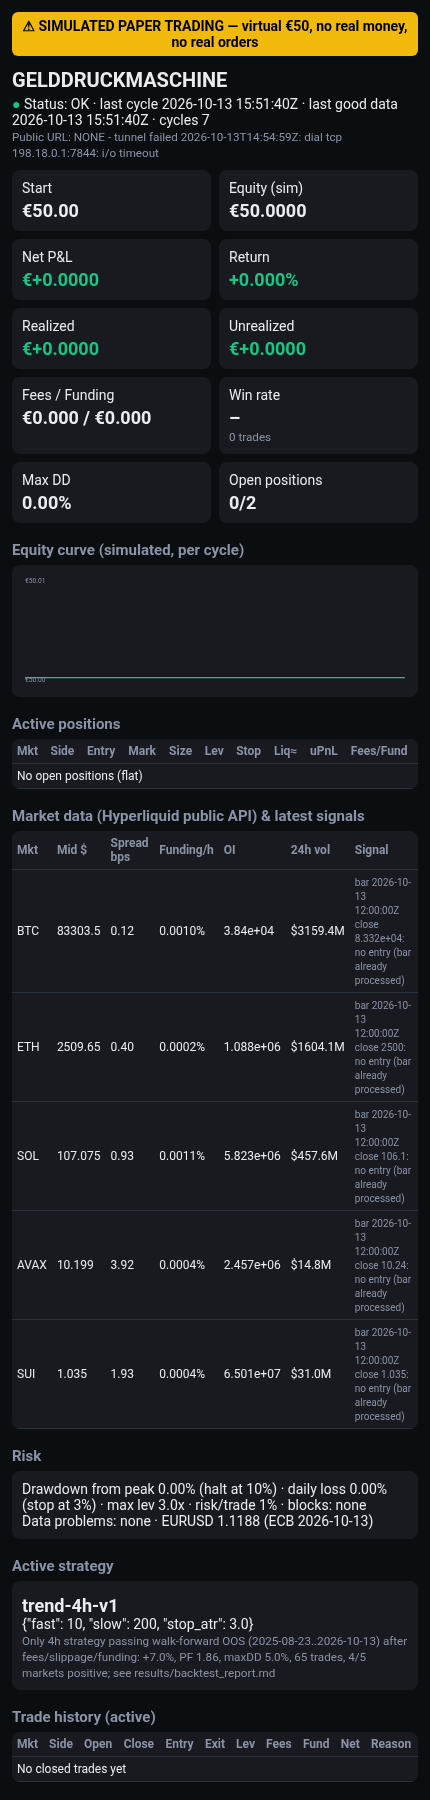
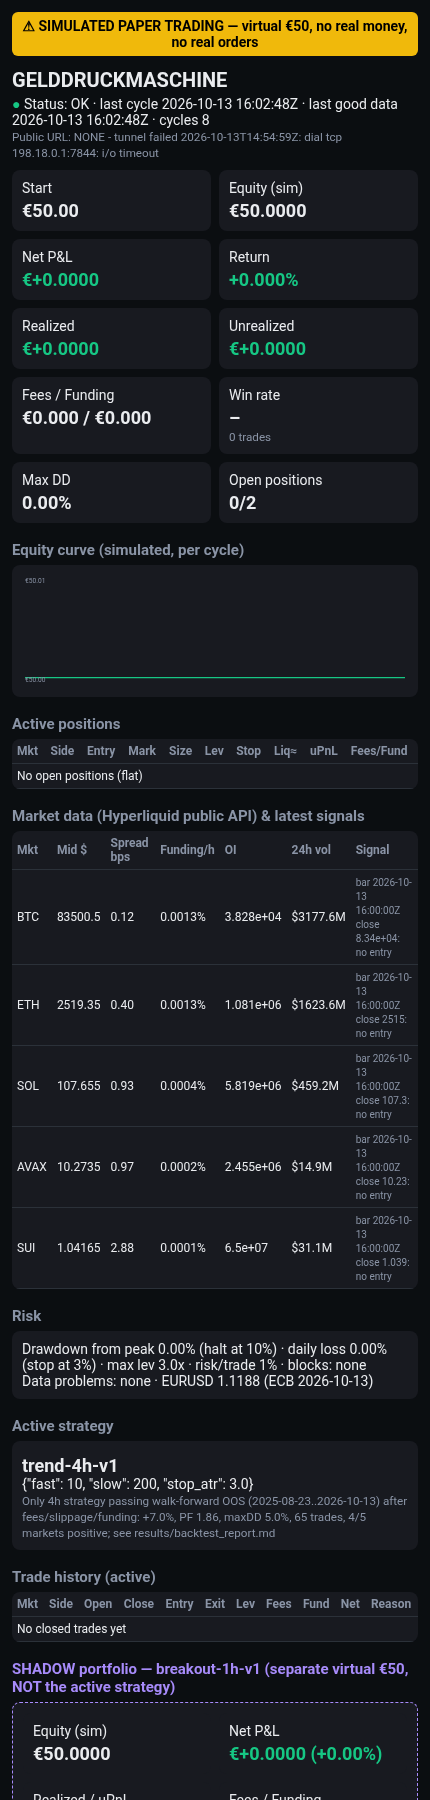
dashboard update 2026-10-13T16:03:00Z (SIMULATED)

diff --git a/index.html b/index.html
@@ -4,23 +4,23 @@
 .grid{display:grid;grid-template-columns:repeat(auto-fit,minmax(140px,1fr));gap:8px}.card{background:#181a20;border-radius:8px;padding:10px}.card b{display:block;font-size:18px;margin-top:4px}
 .pos{color:#16c784}.neg{color:#ea3943}table{width:100%;border-collapse:collapse;font-size:12px}td,th{padding:5px;border-bottom:1px solid #2b3139;text-align:left}th{color:#8a94a6}.scroll{overflow-x:auto;background:#181a20;border-radius:8px}small{color:#8a94a6}</style></head><body>
 <div class=banner>⚠ SIMULATED PAPER TRADING — virtual €50, no real money, no real orders</div>
-<h1>GELDDRUCKMASCHINE</h1><div><span style="color:#16c784">●</span> Status: OK · last cycle 2026-10-13 15:51:40Z · last good data 2026-10-13 15:51:40Z · cycles 7<br><small>Public URL: NONE - tunnel failed 2026-10-13T14:54:59Z: dial tcp 198.18.0.1:7844: i/o timeout</small></div>
+<h1>GELDDRUCKMASCHINE</h1><div><span style="color:#16c784">●</span> Status: OK · last cycle 2026-10-13 16:02:48Z · last good data 2026-10-13 16:02:48Z · cycles 8<br><small>Public URL: NONE - tunnel failed 2026-10-13T14:54:59Z: dial tcp 198.18.0.1:7844: i/o timeout</small></div>
 <div class=grid style="margin-top:10px"><div class=card>Start<b>€50.00</b></div><div class=card>Equity (sim)<b>€50.0000</b></div><div class=card>Net P&L<b class=pos>€+0.0000</b></div><div class=card>Return<b class=pos>+0.000%</b></div>
 <div class=card>Realized<b class=pos>€+0.0000</b></div><div class=card>Unrealized<b class=pos>€+0.0000</b></div><div class=card>Fees / Funding<b>€0.000 / €0.000</b></div>
 <div class=card>Win rate<b>–</b><small>0 trades</small></div><div class=card>Max DD<b>0.00%</b></div><div class=card>Open positions<b>0/2</b></div></div>
-<h2>Equity curve (simulated, per cycle)</h2><div class=card><svg viewBox="0 0 640 180" width="100%"><polyline fill="none" stroke="#16c784" stroke-width="2" points="5.0,170.0 95.0,170.0 185.0,170.0 275.0,170.0 365.0,170.0 455.0,170.0 545.0,170.0 635.0,170.0"/><text x="5" y="14" fill="#8a94a6" font-size="11">€50.01</text><text x="5" y="178" fill="#8a94a6" font-size="11">€50.00</text></svg></div>
+<h2>Equity curve (simulated, per cycle)</h2><div class=card><svg viewBox="0 0 640 180" width="100%"><polyline fill="none" stroke="#16c784" stroke-width="2" points="5.0,170.0 83.8,170.0 162.5,170.0 241.2,170.0 320.0,170.0 398.8,170.0 477.5,170.0 556.2,170.0 635.0,170.0"/><text x="5" y="14" fill="#8a94a6" font-size="11">€50.01</text><text x="5" y="178" fill="#8a94a6" font-size="11">€50.00</text></svg></div>
 <h2>Active positions</h2><div class=scroll><table><tr><th>Mkt</th><th>Side</th><th>Entry</th><th>Mark</th><th>Size</th><th>Lev</th><th>Stop</th><th>Liq≈</th><th>uPnL</th><th>Fees/Fund</th></tr><tr><td colspan=10>No open positions (flat)</td></tr></table></div>
-<h2>Market data (Hyperliquid public API) & latest signals</h2><div class=scroll><table><tr><th>Mkt</th><th>Mid $</th><th>Spread bps</th><th>Funding/h</th><th>OI</th><th>24h vol</th><th>Signal</th></tr><tr><td>BTC</td><td>83303.5</td><td>0.12</td><td>0.0010%</td><td>3.84e+04</td><td>$3159.4M</td><td><small>bar 2026-10-13 12:00:00Z close 8.332e+04: no entry (bar already processed)</small></td></tr><tr><td>ETH</td><td>2509.65</td><td>0.40</td><td>0.0002%</td><td>1.088e+06</td><td>$1604.1M</td><td><small>bar 2026-10-13 12:00:00Z close 2500: no entry (bar already processed)</small></td></tr><tr><td>SOL</td><td>107.075</td><td>0.93</td><td>0.0011%</td><td>5.823e+06</td><td>$457.6M</td><td><small>bar 2026-10-13 12:00:00Z close 106.1: no entry (bar already processed)</small></td></tr><tr><td>AVAX</td><td>10.199</td><td>3.92</td><td>0.0004%</td><td>2.457e+06</td><td>$14.8M</td><td><small>bar 2026-10-13 12:00:00Z close 10.24: no entry (bar already processed)</small></td></tr><tr><td>SUI</td><td>1.035</td><td>1.93</td><td>0.0004%</td><td>6.501e+07</td><td>$31.0M</td><td><small>bar 2026-10-13 12:00:00Z close 1.035: no entry (bar already processed)</small></td></tr></table></div>
+<h2>Market data (Hyperliquid public API) & latest signals</h2><div class=scroll><table><tr><th>Mkt</th><th>Mid $</th><th>Spread bps</th><th>Funding/h</th><th>OI</th><th>24h vol</th><th>Signal</th></tr><tr><td>BTC</td><td>83500.5</td><td>0.12</td><td>0.0013%</td><td>3.828e+04</td><td>$3177.6M</td><td><small>bar 2026-10-13 16:00:00Z close 8.34e+04: no entry</small></td></tr><tr><td>ETH</td><td>2519.35</td><td>0.40</td><td>0.0013%</td><td>1.081e+06</td><td>$1623.6M</td><td><small>bar 2026-10-13 16:00:00Z close 2515: no entry</small></td></tr><tr><td>SOL</td><td>107.655</td><td>0.93</td><td>0.0004%</td><td>5.819e+06</td><td>$459.2M</td><td><small>bar 2026-10-13 16:00:00Z close 107.3: no entry</small></td></tr><tr><td>AVAX</td><td>10.2735</td><td>0.97</td><td>0.0002%</td><td>2.455e+06</td><td>$14.9M</td><td><small>bar 2026-10-13 16:00:00Z close 10.23: no entry</small></td></tr><tr><td>SUI</td><td>1.04165</td><td>2.88</td><td>0.0001%</td><td>6.5e+07</td><td>$31.1M</td><td><small>bar 2026-10-13 16:00:00Z close 1.039: no entry</small></td></tr></table></div>
 <h2>Risk</h2><div class=card>Drawdown from peak 0.00% (halt at 10%) · daily loss 0.00% (stop at 3%) · max lev 3.0x · risk/trade 1% · blocks: none<br>Data problems: none · EURUSD 1.1188 (ECB 2026-10-13)</div>
 <h2>Active strategy</h2><div class=card><b>trend-4h-v1</b> {"fast": 10, "slow": 200, "stop_atr": 3.0}<br><small>Only 4h strategy passing walk-forward OOS (2025-08-23..2026-10-13) after fees/slippage/funding: +7.0%, PF 1.86, maxDD 5.0%, 65 trades, 4/5 markets positive; see results/backtest_report.md</small></div>
 <h2>Trade history (active)</h2><div class=scroll><table><tr><th>Mkt</th><th>Side</th><th>Open</th><th>Close</th><th>Entry</th><th>Exit</th><th>Lev</th><th>Fees</th><th>Fund</th><th>Net</th><th>Reason</th></tr><tr><td colspan=11>No closed trades yet</td></tr></table></div>
 <h2 style="color:#a78bfa">SHADOW portfolio — breakout-1h-v1 (separate virtual €50, NOT the active strategy)</h2>
 <div class=card style="border:1px dashed #a78bfa"><div class=grid><div class=card>Equity (sim)<b>€50.0000</b></div><div class=card>Net P&L<b class=pos>€+0.0000 (+0.00%)</b></div>
 <div class=card>Realized / uPnL<b>€+0.000 / €+0.000</b></div><div class=card>Fees / Funding<b>€0.000 / €0.000</b></div>
-<div class=card>Trades / Win<b>0 / –</b></div><div class=card>Status<b>OK</b><small>2026-10-13 15:51:36Z</small></div></div>
-<svg viewBox="0 0 640 120" width="100%"><polyline fill="none" stroke="#16c784" stroke-width="2" points="5.0,110.0 635.0,110.0"/><text x="5" y="14" fill="#8a94a6" font-size="11">€50.01</text><text x="5" y="118" fill="#8a94a6" font-size="11">€50.00</text></svg><small>{"n": 168, "exit_n": 84, "stop_atr": 1.5} — SHADOW only (not active). Most robust family in review (100% of params positive OOS) but 3.5-month OOS, bootstrap p=0.036, not significant after multiple-testing correction. Evaluate &gt;=8 weeks / &gt;=30 trades.</small>
+<div class=card>Trades / Win<b>0 / –</b></div><div class=card>Status<b>OK</b><small>2026-10-13 16:02:43Z</small></div></div>
+<svg viewBox="0 0 640 120" width="100%"><polyline fill="none" stroke="#16c784" stroke-width="2" points="5.0,110.0 320.0,110.0 635.0,110.0"/><text x="5" y="14" fill="#8a94a6" font-size="11">€50.01</text><text x="5" y="118" fill="#8a94a6" font-size="11">€50.00</text></svg><small>{"n": 168, "exit_n": 84, "stop_atr": 1.5} — SHADOW only (not active). Most robust family in review (100% of params positive OOS) but 3.5-month OOS, bootstrap p=0.036, not significant after multiple-testing correction. Evaluate &gt;=8 weeks / &gt;=30 trades.</small>
 <div class=scroll><table><tr><th>Mkt</th><th>Side</th><th>Entry</th><th>Mark</th><th>Size</th><th>Lev</th><th>Stop</th><th>uPnL</th></tr><tr><td colspan=8>No open positions (flat)</td></tr></table></div>
-<div class=scroll><table><tr><th>Mkt</th><th>Side</th><th>Open</th><th>Close</th><th>Entry</th><th>Exit</th><th>Net</th><th>Reason</th></tr><tr><td colspan=8>No closed trades yet</td></tr></table></div><ul style="font-size:12px;color:#8a94a6"><li>BTC: bar 2026-10-13 15:00:00Z close 8.35e+04: no entry</li><li>ETH: bar 2026-10-13 15:00:00Z close 2516: no entry</li><li>SOL: bar 2026-10-13 15:00:00Z close 107.5: no entry</li><li>AVAX: bar 2026-10-13 15:00:00Z close 10.28: no entry</li><li>SUI: bar 2026-10-13 15:00:00Z close 1.047: no entry</li></ul></div>
-<h2>Run history (last 30 cycles, UTC)</h2><div class=scroll><table><tr><th>Time</th><th>Trigger</th><th>Status</th><th>Dur</th><th>Equity</th><th>Actions</th><th>Problems</th></tr><tr><td>2026-10-13 15:51:40Z</td><td>manual (agent, phase 3 verification)</td><td>OK</td><td>5.0s</td><td>€50.0000</td><td>0</td><td>0</td></tr><tr><td>2026-10-13 15:20:59Z</td><td>non-interactive (likely hourly routine)</td><td>OK</td><td>5.3s</td><td>€50.0000</td><td>0</td><td>0</td></tr><tr><td>2026-10-13 14:57:56Z</td><td>manual (agent, phase 2 verification)</td><td>OK</td><td>4.1s</td><td>€50.0000</td><td>0</td><td>0</td></tr><tr><td>2026-10-13 14:47:57Z</td><td>manual (agent setup)</td><td>OK</td><td>4.9s</td><td>€50.0000</td><td>0</td><td>0</td></tr></table></div>
+<div class=scroll><table><tr><th>Mkt</th><th>Side</th><th>Open</th><th>Close</th><th>Entry</th><th>Exit</th><th>Net</th><th>Reason</th></tr><tr><td colspan=8>No closed trades yet</td></tr></table></div><ul style="font-size:12px;color:#8a94a6"><li>BTC: bar 2026-10-13 16:00:00Z close 8.34e+04: no entry</li><li>ETH: bar 2026-10-13 16:00:00Z close 2515: no entry</li><li>SOL: bar 2026-10-13 16:00:00Z close 107.3: no entry</li><li>AVAX: bar 2026-10-13 16:00:00Z close 10.23: no entry</li><li>SUI: bar 2026-10-13 16:00:00Z close 1.039: no entry</li></ul></div>
+<h2>Run history (last 30 cycles, UTC)</h2><div class=scroll><table><tr><th>Time</th><th>Trigger</th><th>Status</th><th>Dur</th><th>Equity</th><th>Actions</th><th>Problems</th></tr><tr><td>2026-10-13 16:02:48Z</td><td>manual (agent, pages verification)</td><td>OK</td><td>4.5s</td><td>€50.0000</td><td>0</td><td>0</td></tr><tr><td>2026-10-13 15:51:40Z</td><td>manual (agent, phase 3 verification)</td><td>OK</td><td>5.0s</td><td>€50.0000</td><td>0</td><td>0</td></tr><tr><td>2026-10-13 15:20:59Z</td><td>non-interactive (likely hourly routine)</td><td>OK</td><td>5.3s</td><td>€50.0000</td><td>0</td><td>0</td></tr><tr><td>2026-10-13 14:57:56Z</td><td>manual (agent, phase 2 verification)</td><td>OK</td><td>4.1s</td><td>€50.0000</td><td>0</td><td>0</td></tr><tr><td>2026-10-13 14:47:57Z</td><td>manual (agent setup)</td><td>OK</td><td>4.9s</td><td>€50.0000</td><td>0</td><td>0</td></tr></table></div>
 <h2>Strategy research — walk-forward out-of-sample backtest (after fees, slippage, funding)</h2><div class=scroll><table><tr><th>Strategy</th><th>TF</th><th>Net</th><th>MaxDD</th><th>Win</th><th>PF</th><th>Sharpe</th><th>Trades</th><th>Pass</th></tr><tr><td>trend</td><td>1h</td><td class='pos'>5.64%</td><td>6.47%</td><td>20.6%</td><td>1.39</td><td>1.21</td><td>107</td><td>✅</td></tr><tr><td>momentum</td><td>1h</td><td class='pos'>2.03%</td><td>5.49%</td><td>31.4%</td><td>1.21</td><td>0.9</td><td>105</td><td>✅</td></tr><tr><td>breakout</td><td>1h</td><td class='pos'>12.94%</td><td>6.81%</td><td>20.8%</td><td>2.17</td><td>1.85</td><td>72</td><td>✅</td></tr><tr><td>meanrev</td><td>1h</td><td class='neg'>-6.39%</td><td>7.79%</td><td>49.5%</td><td>0.63</td><td>-2.82</td><td>212</td><td>–</td></tr><tr><td>funding</td><td>1h</td><td class='neg'>-2.39%</td><td>4.66%</td><td>36.5%</td><td>0.79</td><td>-1.07</td><td>104</td><td>–</td></tr><tr><td>trend</td><td>4h</td><td class='pos'>4.15%</td><td>2.56%</td><td>14.3%</td><td>1.81</td><td>0.93</td><td>42</td><td>✅</td></tr><tr><td>momentum</td><td>4h</td><td class='pos'>10.09%</td><td>9.48%</td><td>33.6%</td><td>1.26</td><td>0.79</td><td>426</td><td>✅</td></tr><tr><td>breakout</td><td>4h</td><td class='pos'>3.82%</td><td>8.06%</td><td>22.8%</td><td>1.17</td><td>0.37</td><td>149</td><td>–</td></tr><tr><td>meanrev</td><td>4h</td><td class='neg'>-0.27%</td><td>1.31%</td><td>61.3%</td><td>0.89</td><td>-0.23</td><td>31</td><td>–</td></tr><tr><td>funding</td><td>4h</td><td class='pos'>6.37%</td><td>1.6%</td><td>57.9%</td><td>1.85</td><td>2.08</td><td>107</td><td>–</td></tr></table></div>
-<p><small>Page auto-reloads every 2 min; data updates once per hourly cycle. All figures are hypothetical simulation results. Backtests are not a guarantee of future performance. Generated 2026-10-13 15:51:40Z.</small></p></body></html>
+<p><small>Page auto-reloads every 2 min; data updates once per hourly cycle. All figures are hypothetical simulation results. Backtests are not a guarantee of future performance. Generated 2026-10-13 16:02:48Z.</small></p></body></html>
